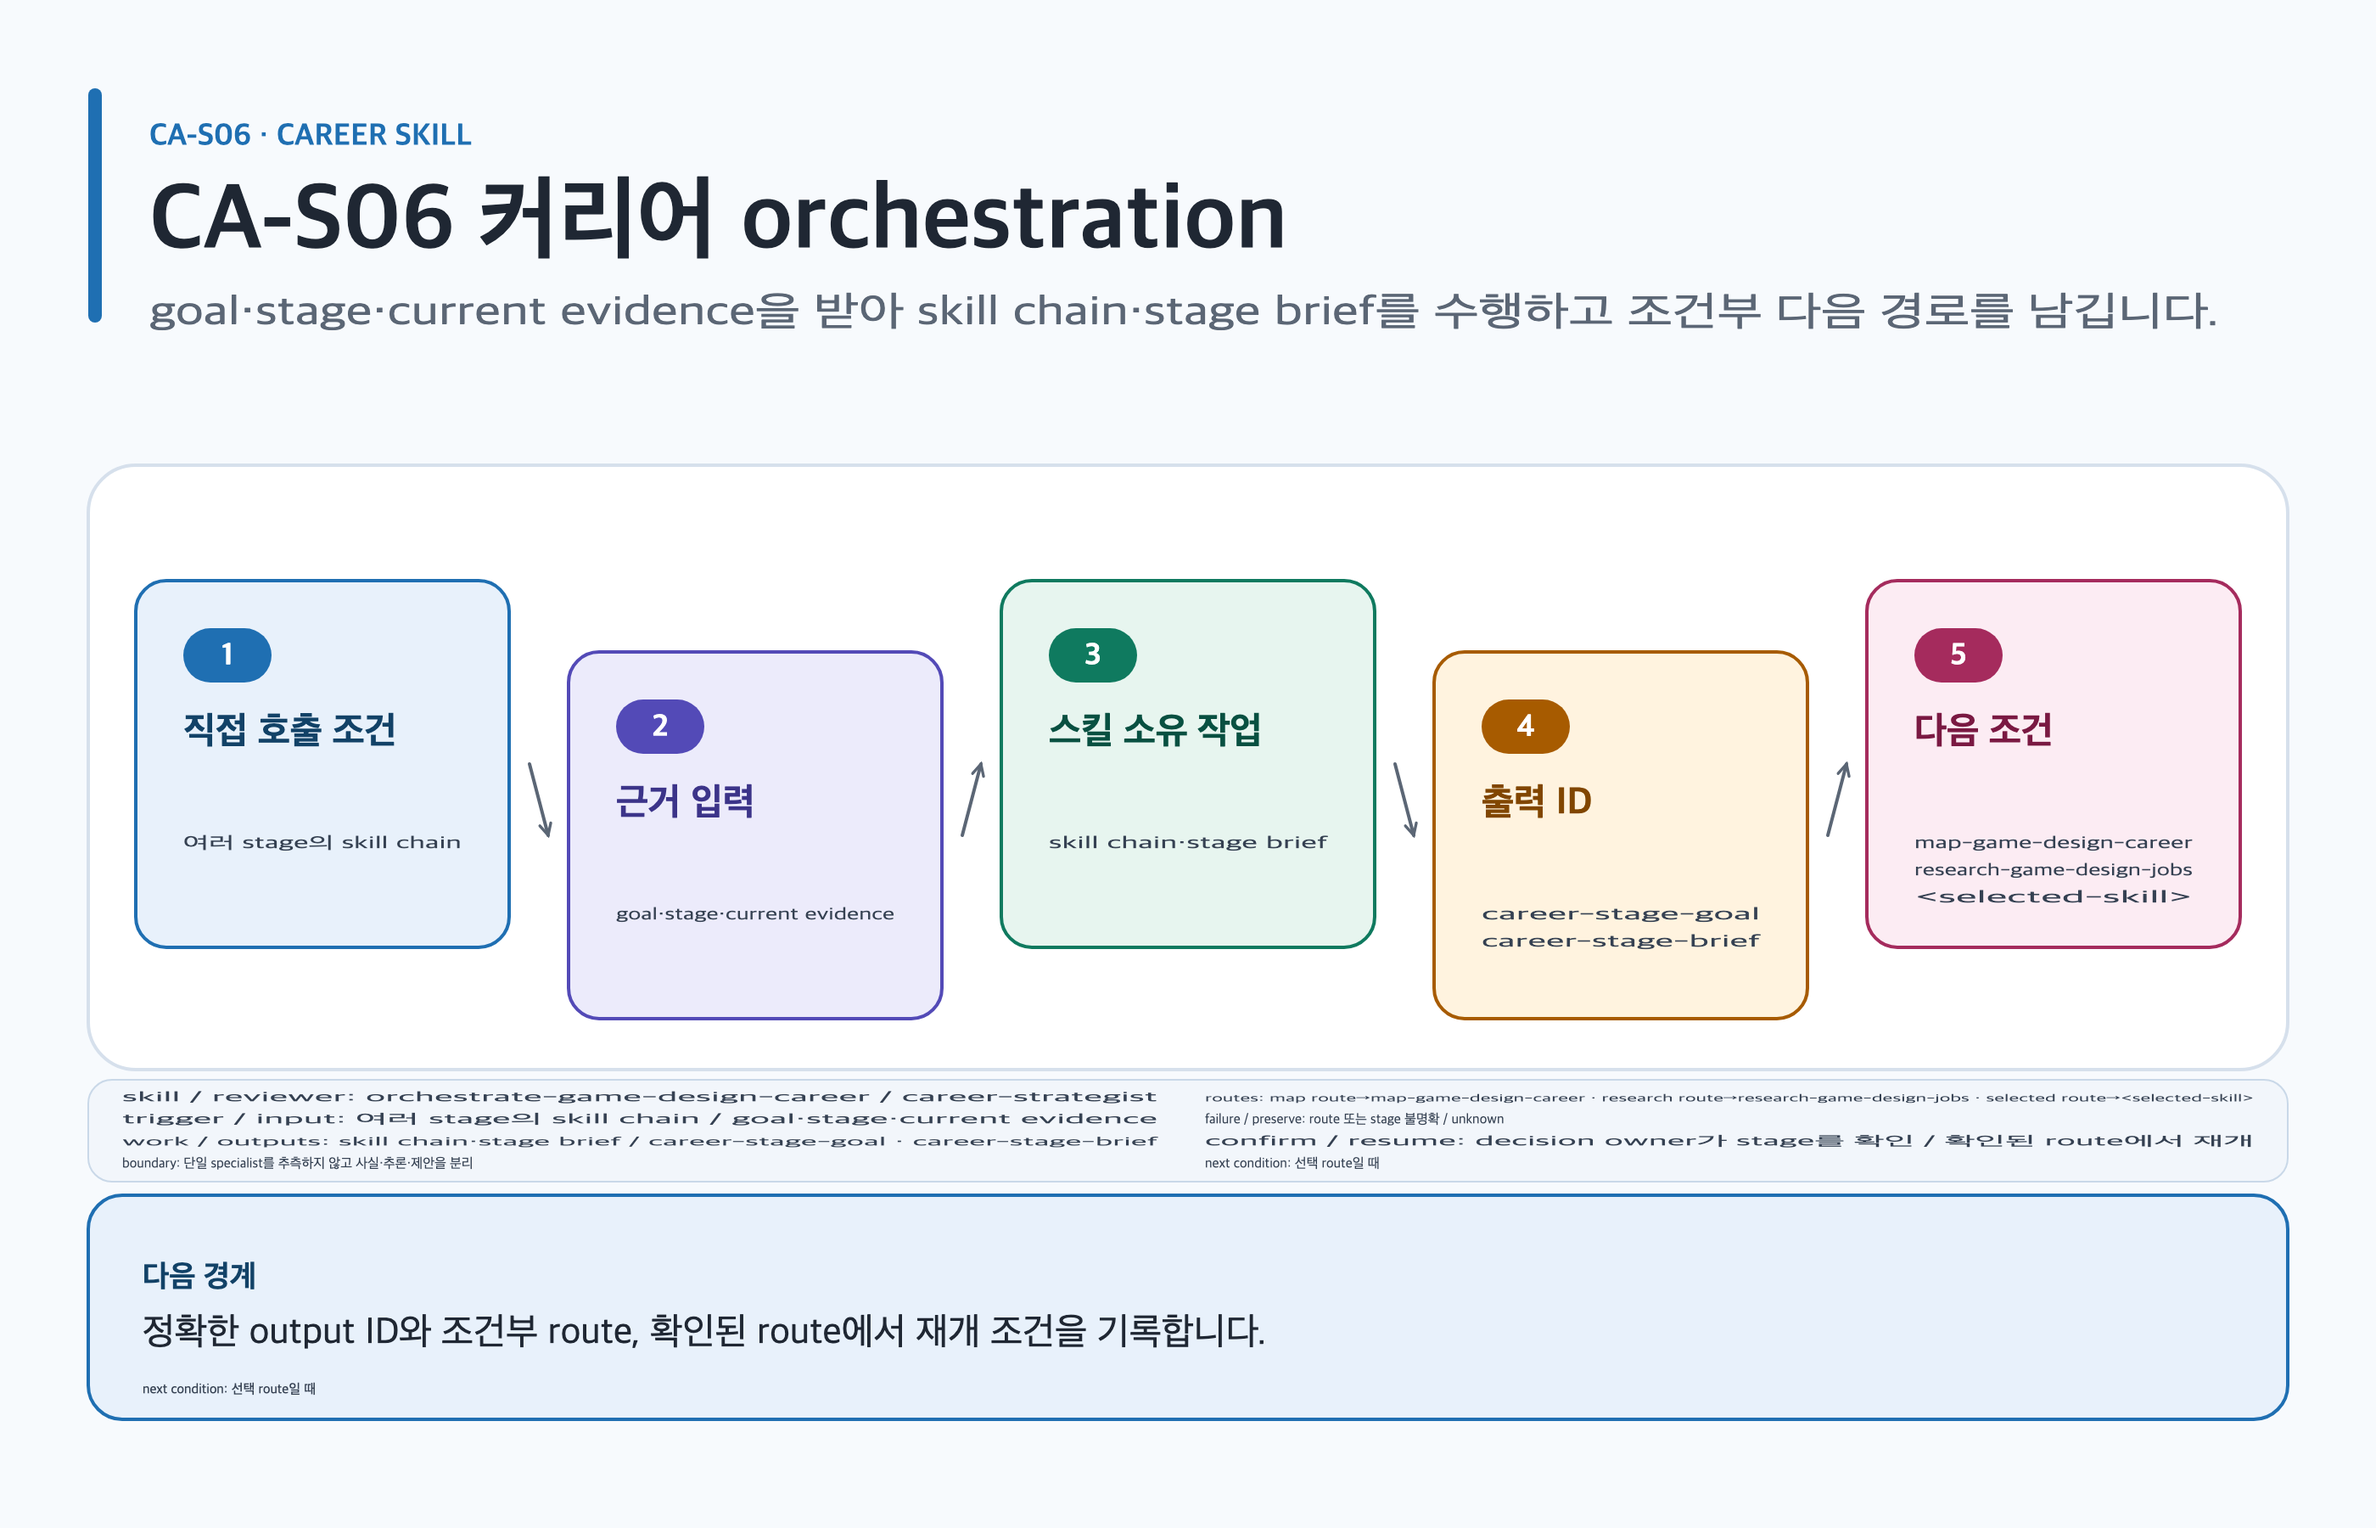
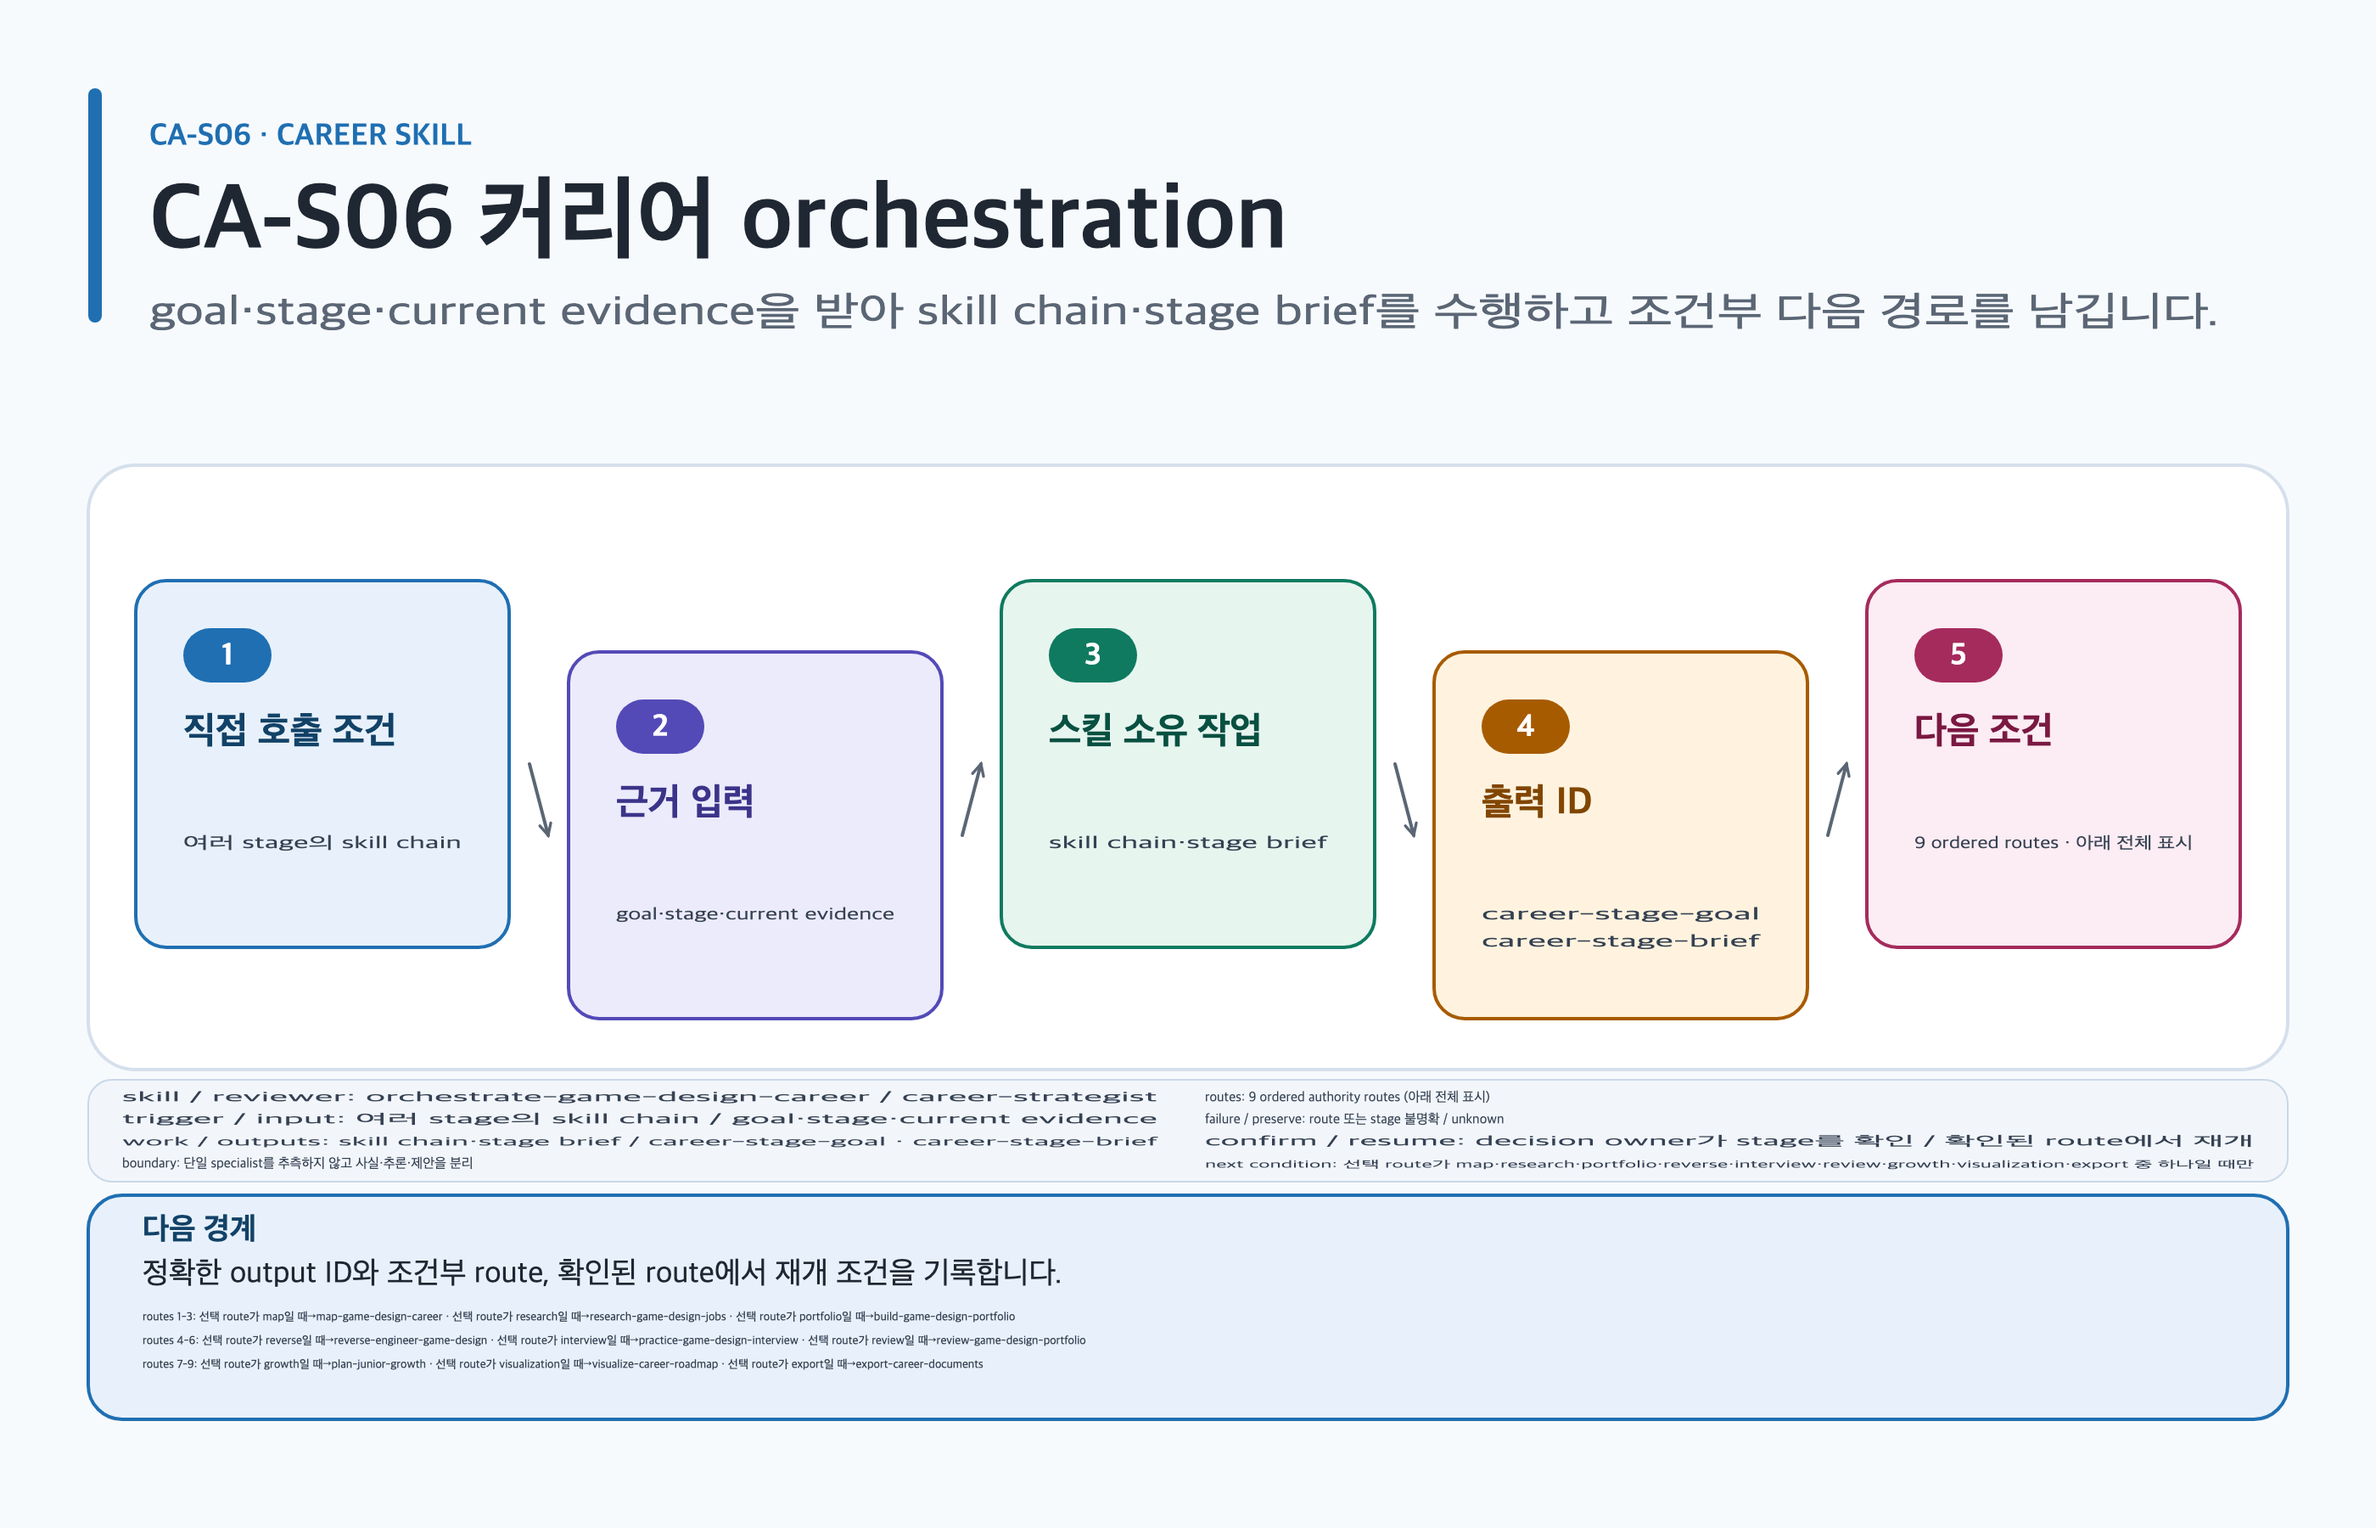
fix: harden Career diagram authority routes

Changed region(s): [[0.0621, 0.7778, 0.5282, 0.9333], [0.8079, 0.5289, 0.9321, 0.5911], [0.5282, 0.7156, 0.6214, 0.7778]]

diff --git a/guides/assets/VISUAL-QA.md b/guides/assets/VISUAL-QA.md
@@ -90,3 +90,10 @@
 - `ca-t01.png`, `ca-t02.png`: high/original 첫 검사에서 5번 card의 output/route 중복 표시가 card 아래로 내려가는 결함을 발견했습니다. output은 rail에 보존하고 card는 두 ordered route target만 한 줄로 표시하도록 교정한 뒤 다시 high/original로 확인했습니다. 두 branch, review owner, non-guarantee boundary, failure→preserve→confirm→resume footer가 겹침 없이 판독됩니다.
 - `practice-game-design-interview.png`(CA-S09): 변경 후 semantic source 문자열이 가장 긴 Career skill입니다. high/original에서 fresh posting·stable questionId 확인, 기존 stale 기록 보존, answer-feedback 재개, growth/portfolio review route와 채용 비보장 경계를 확인했습니다.
 - 자동 증거: Career 33개 임시 SVG lint는 오류 0·경고 0, 전체 `npm run check:guide-diagrams`는 72 SVG/PNG 동등성·2× 치수·IEND를 통과했습니다. 시각 QA 후 교정된 CA-T01…CA-T10은 공식 builder `--id` 단일 프로세스로 재생성했습니다.
+
+## Career Task 6 Fix round 2 재검사 — 2026-08-07
+
+- `apply-document-quality-profile.png`(CA-S01), `orchestrate-game-design-career.png`(CA-S06): high/original에서 각각 authority guide의 ordered route 10개와 9개를 확인했습니다. 5번 card는 전체 개수와 footer 위치만 안내하고, footer의 4줄/3줄에는 모든 `condition→installed skill ID`가 순서대로 남아 있습니다. `<selected-skill>` placeholder, 강제 가로 확대, card/footer overflow, clipping·겹침이 없습니다.
+- 시각 교정: 첫 high 검사에서 CA-S01의 마지막 단일 route 줄이 `textLength`로 과도하게 늘어나는 문제를 발견해 footer route 전용 자연 폭 텍스트로 교정했습니다. original 검사에서 10/9개 route, next condition, reviewer·boundary·failure·preserve·confirmation·resume 의미가 containment 안에서 판독됨을 다시 확인했습니다.
+- 계약/회귀: CA-S01/S06 source와 production contract는 authority guide의 정확한 route 조건·대상을 비교하며 각 조건/대상 mutation을 거부합니다. 일반 non-Career `decision-flow`는 정확히 두 branch만 허용하고 기존 두 branch 좌표 `[298, 505]`를 보존해 세 번째 branch가 `y=505`에 겹치는 경로를 fail-closed로 차단합니다.
+- 자동 증거: 최종 Career 33개 build/check와 `npm run check:guide-diagrams`가 종료 코드 0으로 통과했고 전체 72 SVG/PNG의 deterministic byte equality, Skillstead lint, `2800×1800`, IEND 완결성을 확인했습니다. 기준 `fb0402ee5eebf008d567f4cec5bcb7784941ff5e` 대비 CA-S01/S06 4개 asset 외 예상 밖 drift는 0입니다.
